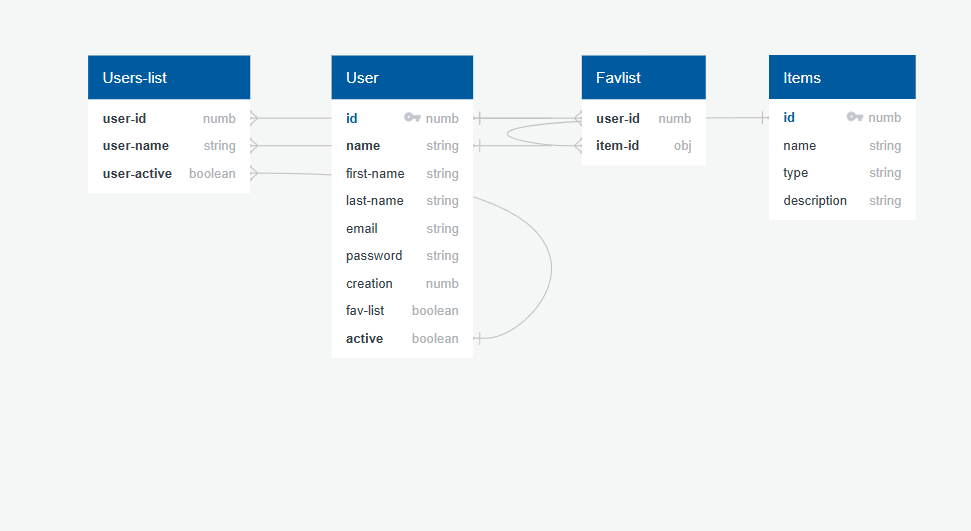
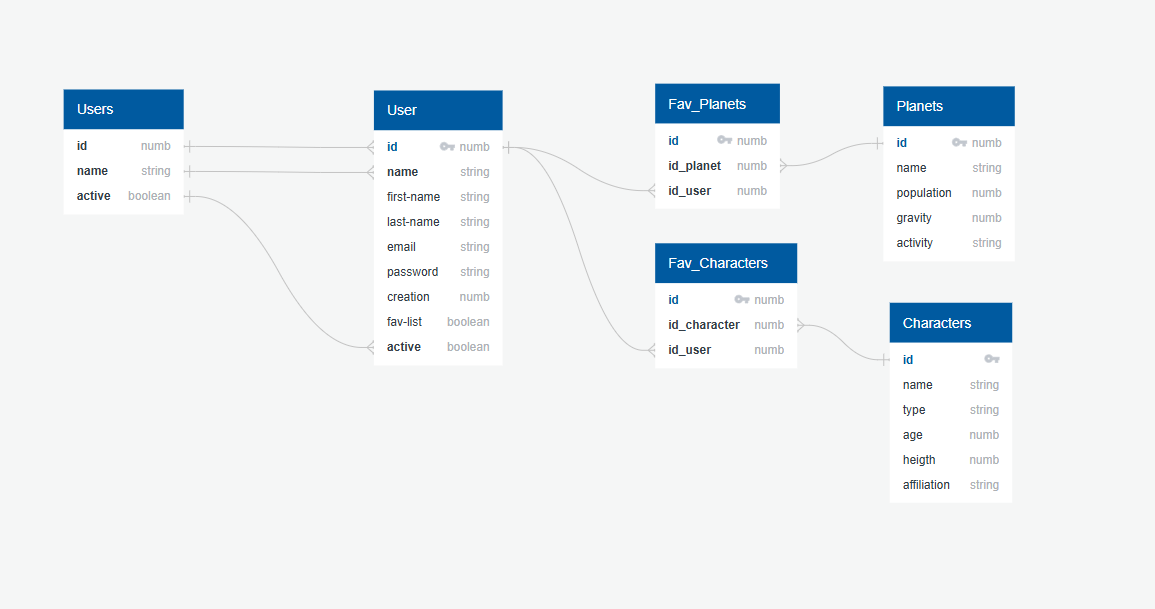
revisado

diff --git a/src/models.py b/src/models.py
@@ -7,12 +7,11 @@ from eralchemy2 import render_er
 
 Base = declarative_base()
 
-class Users_list (Base):
-    __tablename__='users-list'
-    id = Column(Integer, primary_key=True)
-    user_id = Column(Integer, ForeignKey('user.id'))
-    user_name = Column(String, ForeignKey('user.name'))
-    user_active = Column(String, ForeignKey('user.active'))
+class Users (Base):
+    __tablename__='users'
+    id = Column(Integer, ForeignKey('user.id'), primary_key=True)
+    name = Column(String, ForeignKey('user.name'))
+    active = Column(String, ForeignKey('user.active'))
 
 class User (Base):
     __tablename__='user'
@@ -21,26 +20,44 @@ class User (Base):
     first_name = Column(String(32))
     last_name = Column(String(32))
     email = Column(String(32))
-    password = Column(String)
+    password = Column(String(16))
     creation = Column(Integer)
     fav_list = Column(String)
-    active = Column(String)
-    user = relationship(Users_list)
+    is_active = Column(String)
+    user = relationship(Users)
 
-class Fav_list (Base):
-    __tablename__='fav-list'
+class Fav_Planets (Base):
+    __tablename__='fav-planets'
     id = Column(Integer, primary_key=True)
     user_id = Column(Integer, ForeignKey('user.id'))
-    item_id = Column(Integer, ForeignKey('items.id'))
+    planets_id = Column(Integer, ForeignKey('planets.id'))
     user = relationship(User)
 
-class Items(Base):
-    __tablename__='items'
+class Planets(Base):
+    __tablename__='planets'
     id = Column(Integer, primary_key=True)
-    name = Column(String)
+    name = Column(String(20))
+    population = Column(Integer)
+    gravity = Column(Integer)
+    activity = Column(String(320))
+    planet = relationship(Fav_Planets)
+
+class Fav_Characters (Base):
+    __tablename__='fav-characters'
+    id = Column(Integer, primary_key=True)
+    user_id = Column(Integer, ForeignKey('user.id'))
+    character_id = Column(Integer, ForeignKey('characters.id'))
+    user = relationship(User)
+
+class Characters(Base):
+    __tablename__='characters'
+    id = Column(Integer, primary_key=True)
+    name = Column(String(20))
     type = Column(String)
-    description = Column(String)
-    user = relationship(Fav_list)
+    age = Column(Integer)
+    heigth = Column(Integer)
+    affiliation = Column(String)
+    character = relationship(Fav_Characters)
 
     def to_dict(self):
         return {}
